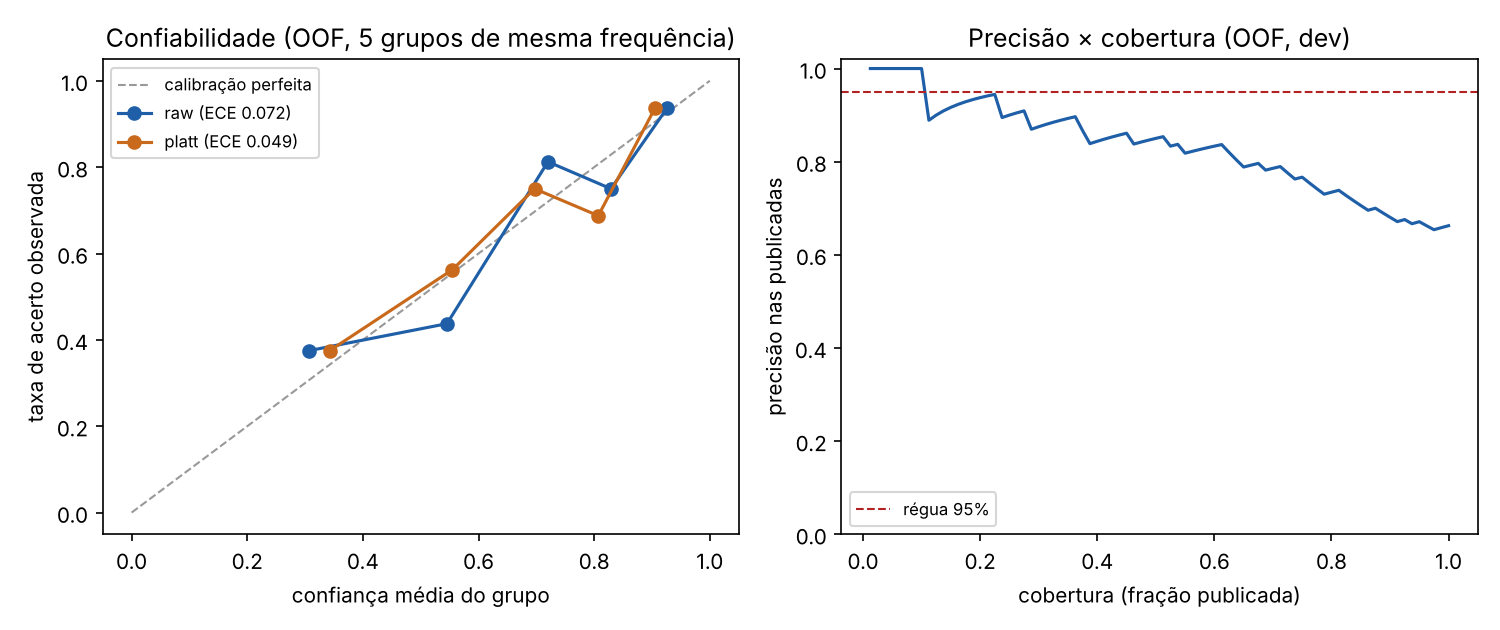
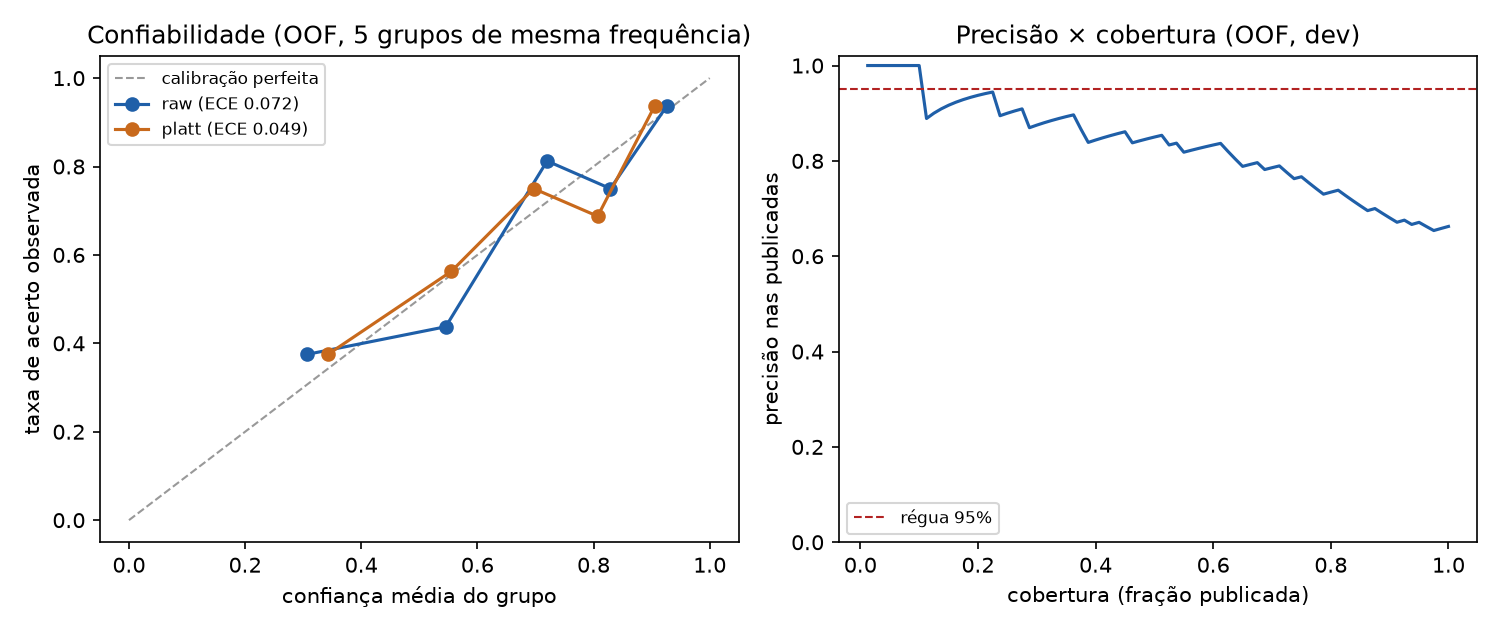
fix(forecast): keep previsao.txt numeric and compute the explanation from data
- render() writes 0.00 instead of nan, as LEIA-ME requires
- min_run_to_certify() computes the hit run needed to certify (31 at 80%, 44 at 90%)
- top errors of the queue come from the OOF table instead of being hardcoded
- knn ignores non finite similarities (removes the NaN warning)
- drop group_thresholds and min_group_size, which no code read

diff --git a/vde/report.py b/vde/report.py
@@ -8,6 +8,7 @@ import numpy as np
 import pandas as pd
 
 from vde import shift, splits
+from vde.calibrate import min_run_to_certify
 from vde.config import load_config
 from vde.engine import Engine
 from vde.evaluate import (calibration_comparison, evaluate_lockbox, run_ablations, save_json, summarize)
@@ -41,6 +42,7 @@ def evaluate(ablations: bool = False, open_lockbox: bool = False) -> dict:
     elif (OUTPUT_DIR / "ablations.csv").exists():
         report["ablations"] = pd.read_csv(OUTPUT_DIR / "ablations.csv").to_dict("records")
     report["repeat_spread"] = _repeat_spread(cv)
+    report["top_errors"] = _top_errors(per_q, 20)
     _figures(cv, calib, OUTPUT_DIR)
     (OUTPUT_DIR / "previsao.txt").write_text(render(fc, _explanation(report, model)), encoding="utf-8")
     save_json(OUTPUT_DIR / "evaluation.json", report)
@@ -73,6 +75,13 @@ def _repeat_spread(cv) -> dict:
     """Standard deviation of the hit rate between CV repeats: the noise floor of the ablation table."""
     per_rep = cv.rows.groupby("rep").hit.mean()
     return {"repeats": int(len(per_rep)), "mean": float(per_rep.mean()), "std": float(per_rep.std(ddof=1))}
+
+
+def _top_errors(per_q: pd.DataFrame, k: int) -> list[dict]:
+    """Misses among the k most confident labeled questions, computed instead of written by hand."""
+    top = per_q.sort_values("conf", ascending=False, kind="stable").head(k)
+    misses = top[~top.hit.astype(bool)]
+    return [{"qid": r.qid, "conf": float(r.conf), "is_out": bool(r.is_out)} for r in misses.itertuples(index=False)]
 
 
 def _figures(cv, calib: dict, out_dir) -> None:
@@ -130,20 +139,24 @@ def _explanation(report: dict, model: dict) -> list[str]:
         f"precisão {cv['threshold_cv']['precision'] if cv['threshold_cv']['precision'] is not None else 'indefinida'}.",
     ]
     if fc["precision"] is None:
-        lines.append("6. Nenhuma questão passou no limiar: a precisão prevista é indefinida (nan). Preferimos não "
-                     "publicar a publicar abaixo da régua; tudo vai para revisão com sugestão.")
+        lines.append("6. Nenhuma questão passou no limiar: sem publicadas, a precisão não tem o que medir e o "
+                     "cabeçalho mostra 0.00 só para manter o formato. Tudo vai para revisão com sugestão.")
     if "lockbox" in report:
         lb = report["lockbox"]
         lines.append(f"7. Cofre (20 rótulos nunca vistos): acerto {lb['hit_rate']:.2f}; publicadas "
                      f"{lb['published']}, acertos {lb['published_hits']}.")
     pac = cv["precision_at_coverage"]
+    dec = load_config()["decision"]
+    run80 = min_run_to_certify(dec["target_precision"], 0.80)
+    run90 = min_run_to_certify(dec["target_precision"], 0.90)
+    top_errors = report.get("top_errors", [])
+    errors_text = ", ".join(f"{e['qid']} ({'fora na folha' if e['is_out'] else 'tema errado'})" for e in top_errors)
     lines += [
-        f"8. Por que zero: no dev, os 10% mais confiantes acertam {pac['0.10']:.2f} e os 20% acertam "
-        f"{pac['0.20']:.2f}; os dois erros do topo são questões que a equipe marcou como fora mas que parecem "
-        "classificáveis (Q0043, Q0291). Com 80 rótulos, certificar 95% com 80% de confiança exige 32 acertos "
-        "seguidos sem erro; com 90%, exige 45. Nenhum limiar chega lá.",
-        "9. O que destrava a publicação: o professor confirmar as questões do topo da fila, ordenada por "
-        "confiança. Cerca de 30 confirmações seguidas sem erro no topo bastam para certificar o limiar a 80%.",
+        f"8. Topo da fila: os 10% mais confiantes acertam {pac['0.10']:.2f} e os 20% acertam {pac['0.20']:.2f}. "
+        f"Erros entre os 20 mais confiantes: {errors_text or 'nenhum'}. Certificar 95% só com acertos seguidos "
+        f"exige {run80} acertos sem erro a 80% de confiança e {run90} a 90%.",
+        f"9. O que amplia a publicação: o professor confirmar o topo da fila, ordenada por confiança. Cerca de "
+        f"{run80} confirmações seguidas sem erro certificam o limiar a 80%.",
         f"10. Mudança de distribuição: o classificador de domínio separa banco e importação nova com AUC "
         f"{report['shift']['domain_auc']:.2f}, quase o acaso. A mudança está nos metadados: a disciplina de origem "
         "só entra nas regras de fora e o assunto de origem entra apenas como canal fraco, com peso aprendido.",

diff --git a/tests/test_output_format.py b/tests/test_output_format.py
@@ -1,3 +1,5 @@
+import re
+
 import pandas as pd
 import pytest
 
@@ -32,3 +34,24 @@ def test_published_topics_are_valid_and_never_a_root(publication):
     for value in publication[publication.decisao == "publicar"].tema_central_id:
         tid = int(value)
         assert tid in tree and tree.level(tid) >= 1
+
+
+HEADER = [
+    ("precisao_prevista", r"\d\.\d{2}"),
+    ("precisao_intervalo", r"\d\.\d{2}-\d\.\d{2}"),
+    ("cobertura_prevista", r"\d\.\d{2}"),
+    ("cobertura_intervalo", r"\d\.\d{2}-\d\.\d{2}"),
+]
+
+
+def test_forecast_header_is_numeric():
+    lines = (OUTPUT_DIR / "previsao.txt").read_text(encoding="utf-8").splitlines()
+    for line, (key, pattern) in zip(lines, HEADER):
+        assert re.fullmatch(rf"{key}: {pattern}", line.strip()), line
+
+
+def test_forecast_coverage_matches_publication(publication):
+    lines = (OUTPUT_DIR / "previsao.txt").read_text(encoding="utf-8").splitlines()
+    coverage = float(lines[2].split(":")[1])
+    evaluated = publication[~publication.motivo.str.startswith("folha-verdade")]
+    assert abs(coverage - (evaluated.decisao == "publicar").mean()) < 0.005

diff --git a/vde/calibrate.py b/vde/calibrate.py
@@ -34,6 +34,17 @@ def posterior_at_least(hits: float, n: float, target: float) -> float:
     return float(beta.sf(target, 1 + hits, 1 + n - hits))
 
 
+def min_run_to_certify(target: float = 0.95, level: float = 0.80) -> int:
+    """Smallest run of hits with no error that gives P(precision >= target) >= level under a uniform prior.
+
+    The posterior after n hits and 0 errors is Beta(1 + n, 1), so P(p >= target) = 1 - target ** (n + 1).
+    """
+    n = 0
+    while 1 - target ** (n + 1) < level:
+        n += 1
+    return n
+
+
 def effective_counts(correct: np.ndarray, weights: np.ndarray | None) -> tuple[float, float]:
     """Importance weighted (hits, n), rescaled to the effective sample size (Kish)."""
     if weights is None:

diff --git a/vde/channels/knn.py b/vde/channels/knn.py
@@ -45,7 +45,9 @@ class KnnChannel(Channel):
         sims = self.similarity[self.row[qid], self.labeled_rows].copy()
         own = [i for i, lid in enumerate(self.labeled_ids) if lid == qid]
         sims[own] = -np.inf
-        order = np.argsort(-sims)[: self.k]
+        order = [i for i in np.argsort(-sims)[: self.k] if np.isfinite(sims[i])]
+        if not order:
+            return {}, 0.0
         best = sims[order[0]]
         votes: Scores = {}
         out_mass = 0.0

diff --git a/vde/forecast.py b/vde/forecast.py
@@ -60,8 +60,10 @@ def forecast(decisions, res, dev_conf, dev_hit, tau, weights, seed: int = 0) -> 
 
 
 def render(fc: dict, extra_lines: list[str]) -> str:
+    """The four header lines always carry numbers in the 0.00 format of LEIA-ME, never nan."""
+
     def fmt(x):
-        return "nan" if x is None else f"{x:.2f}"
+        return "0.00" if x is None or x != x else f"{x:.2f}"
 
     lines = [
         f"precisao_prevista: {fmt(fc['precision'])}",

diff --git a/tests/test_channels.py b/tests/test_channels.py
@@ -31,3 +31,10 @@ def test_scores_are_canonical_and_normalized(res):
             if scores:
                 assert abs(max(scores.values()) - 1.0) < 1e-9
                 assert all(not res.tree.is_shadow(t) and res.tree.level(t) > 0 for t in scores)
+
+
+def test_min_run_to_certify():
+    from vde.calibrate import min_run_to_certify
+
+    assert min_run_to_certify(0.95, 0.80) == 31
+    assert min_run_to_certify(0.95, 0.90) == 44
